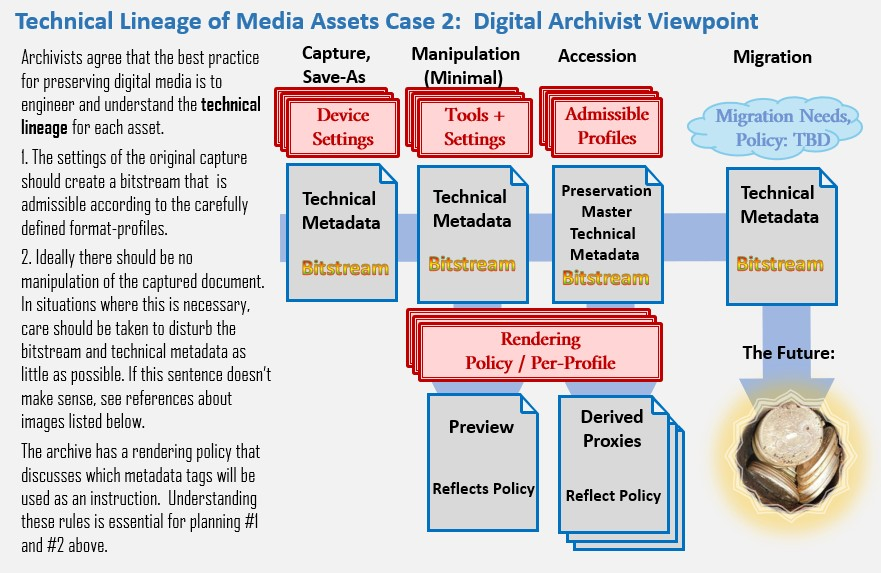
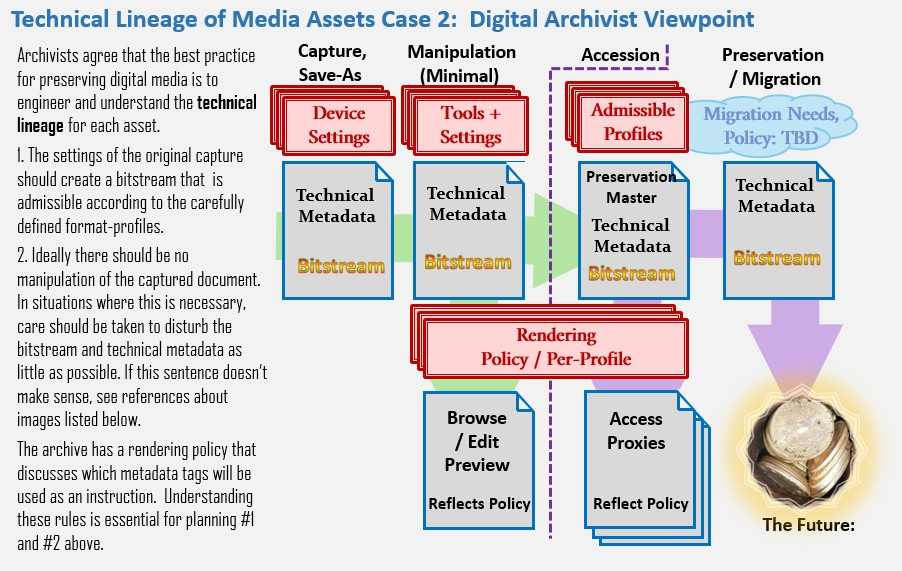
modified:   media_format/images/lineage_archivist.jpg 	modified:   media_format/images/lineage_consumer.jpg 	modified:   media_format/index.htm

diff --git a/media_format/index.htm b/media_format/index.htm
@@ -61,7 +61,7 @@
 </p>
   <figure class="middle">
   <img src="images/lineage_consumer.jpg">
-  <figcaption>Consumer Viewpoint on Digital Media</figcaption>
+  <figcaption>Consumer Viewpoint on Digital Media (Click to Enlarge)</figcaption>
   </figure>
 
 <h2>Media Files are Packages</h2>
@@ -94,7 +94,7 @@ You can look at our listing of Format Profiles, below to see some of the ways th
 
  <figure class="middle">
   <img src="images/lineage_archivist.jpg">
-  <figcaption>Archivist's Responsibility</figcaption>
+  <figcaption>Archivist's Viewpoint (Click to Enlarge)</figcaption>
   </figure>
 
 
